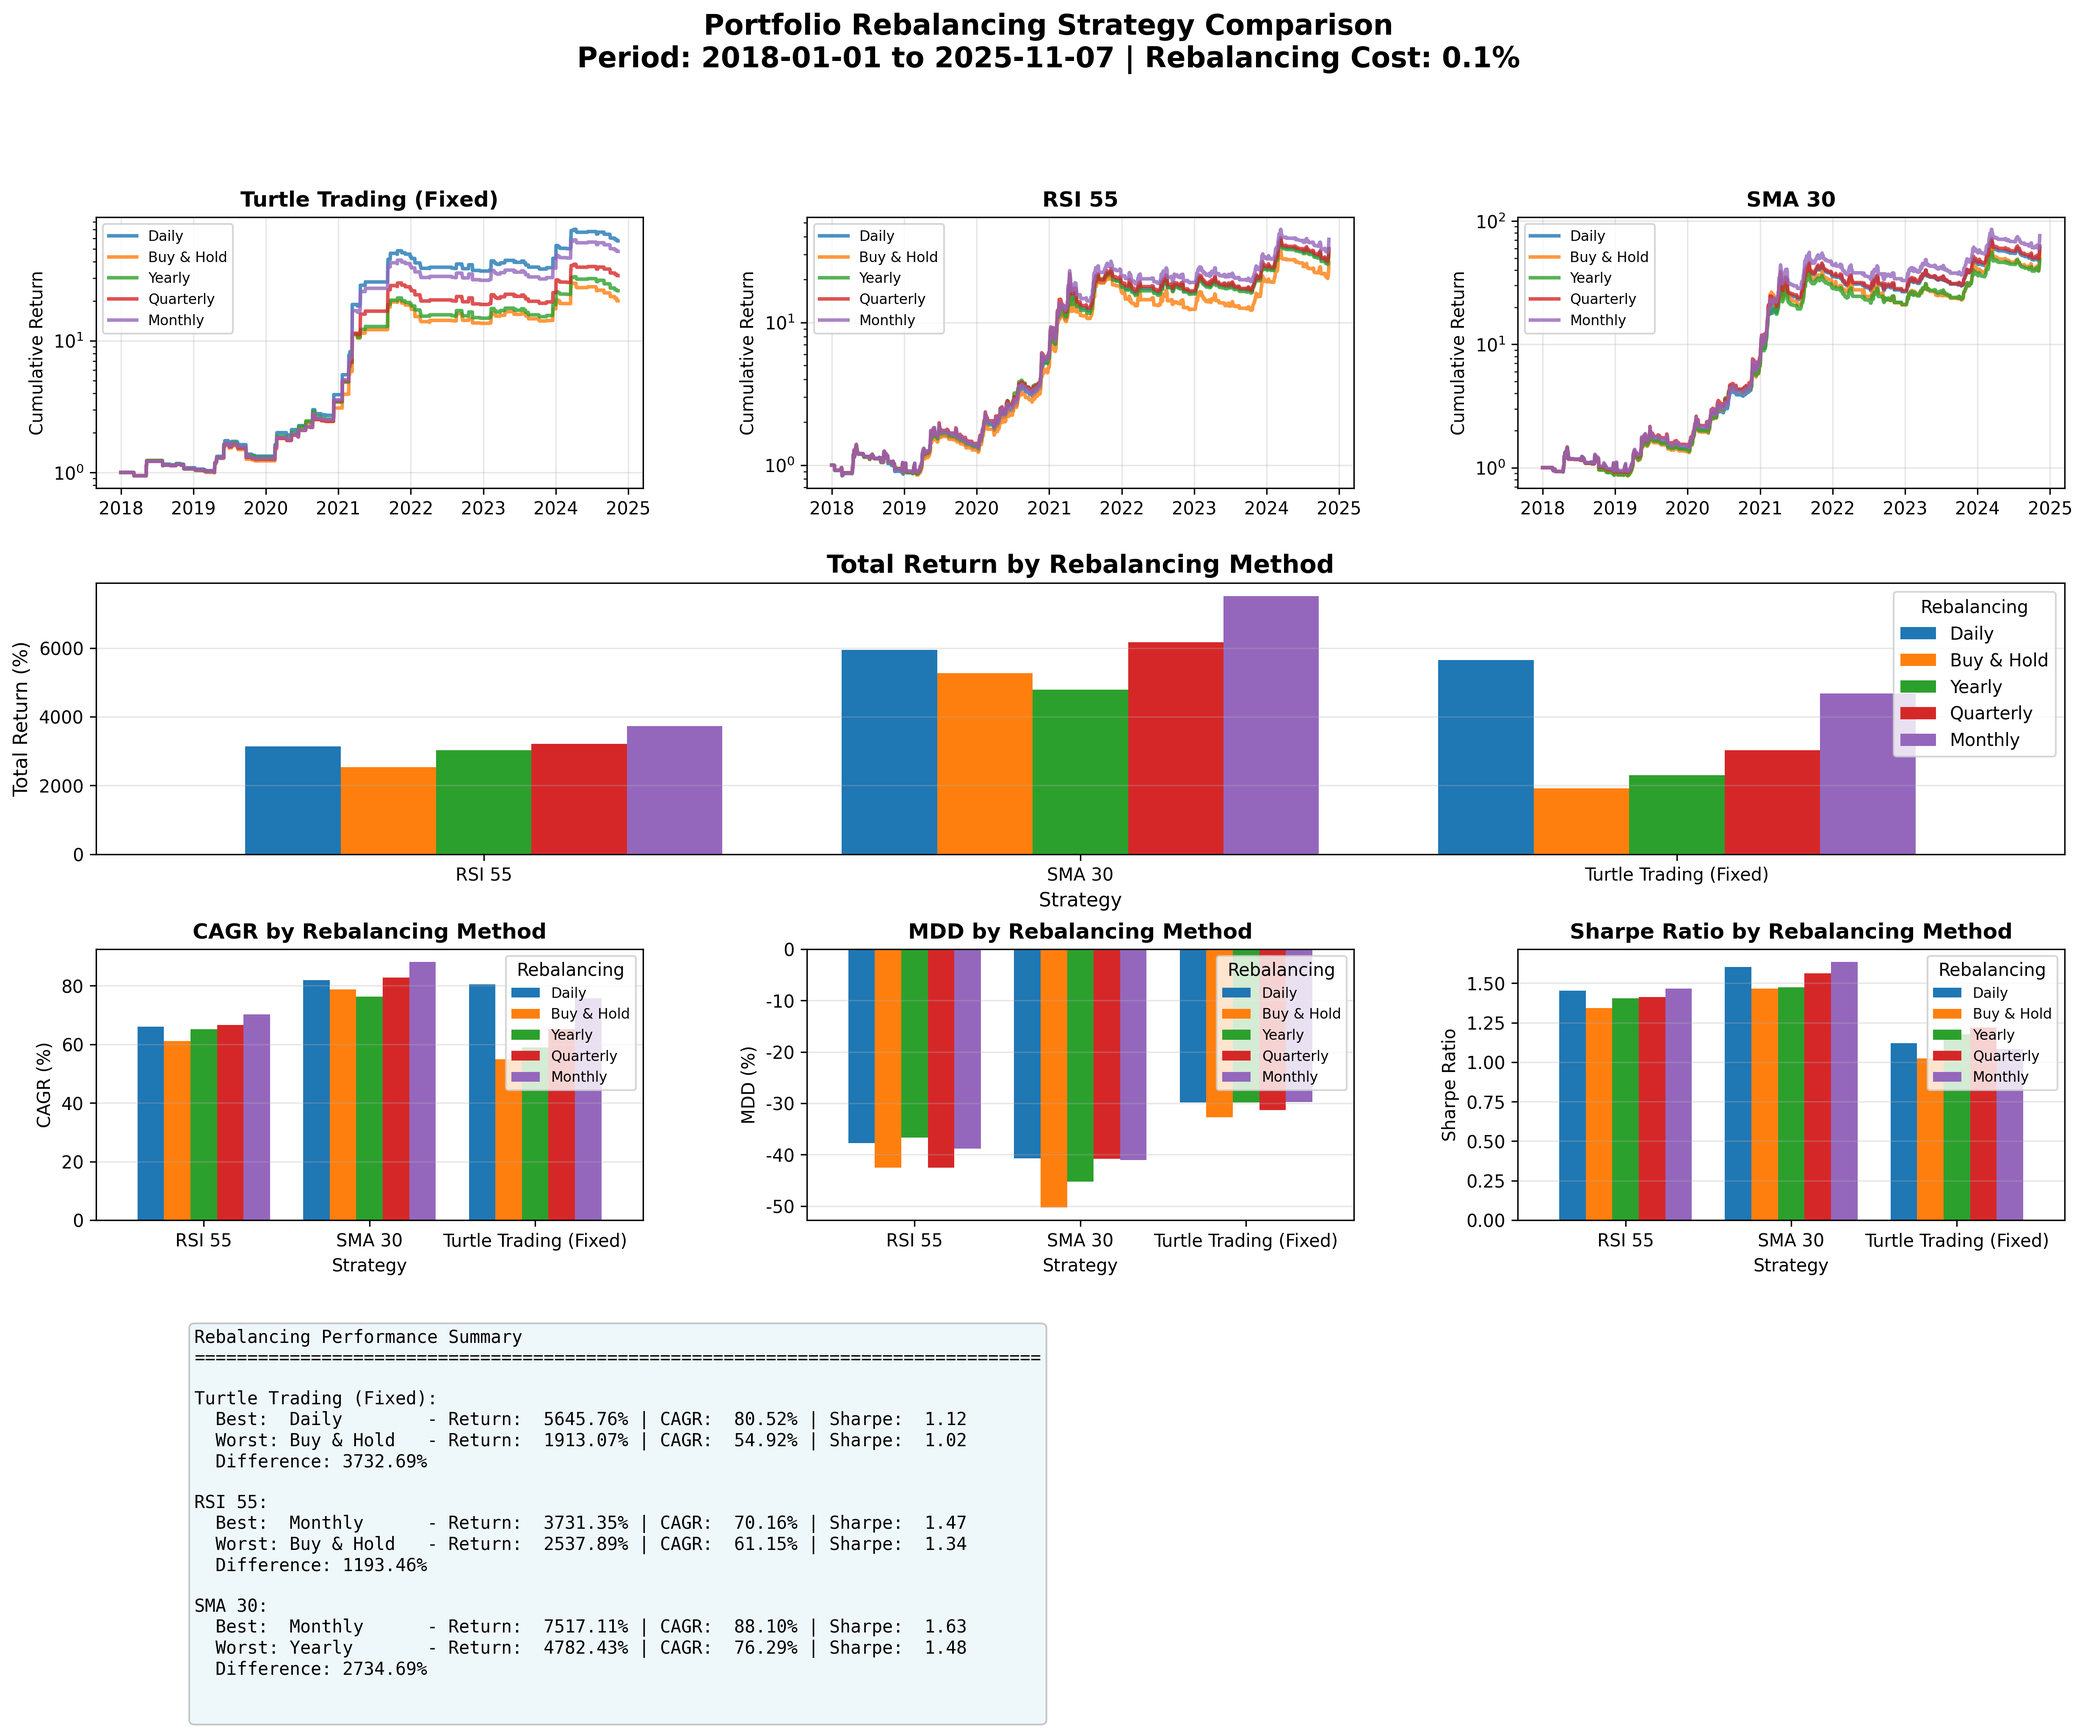
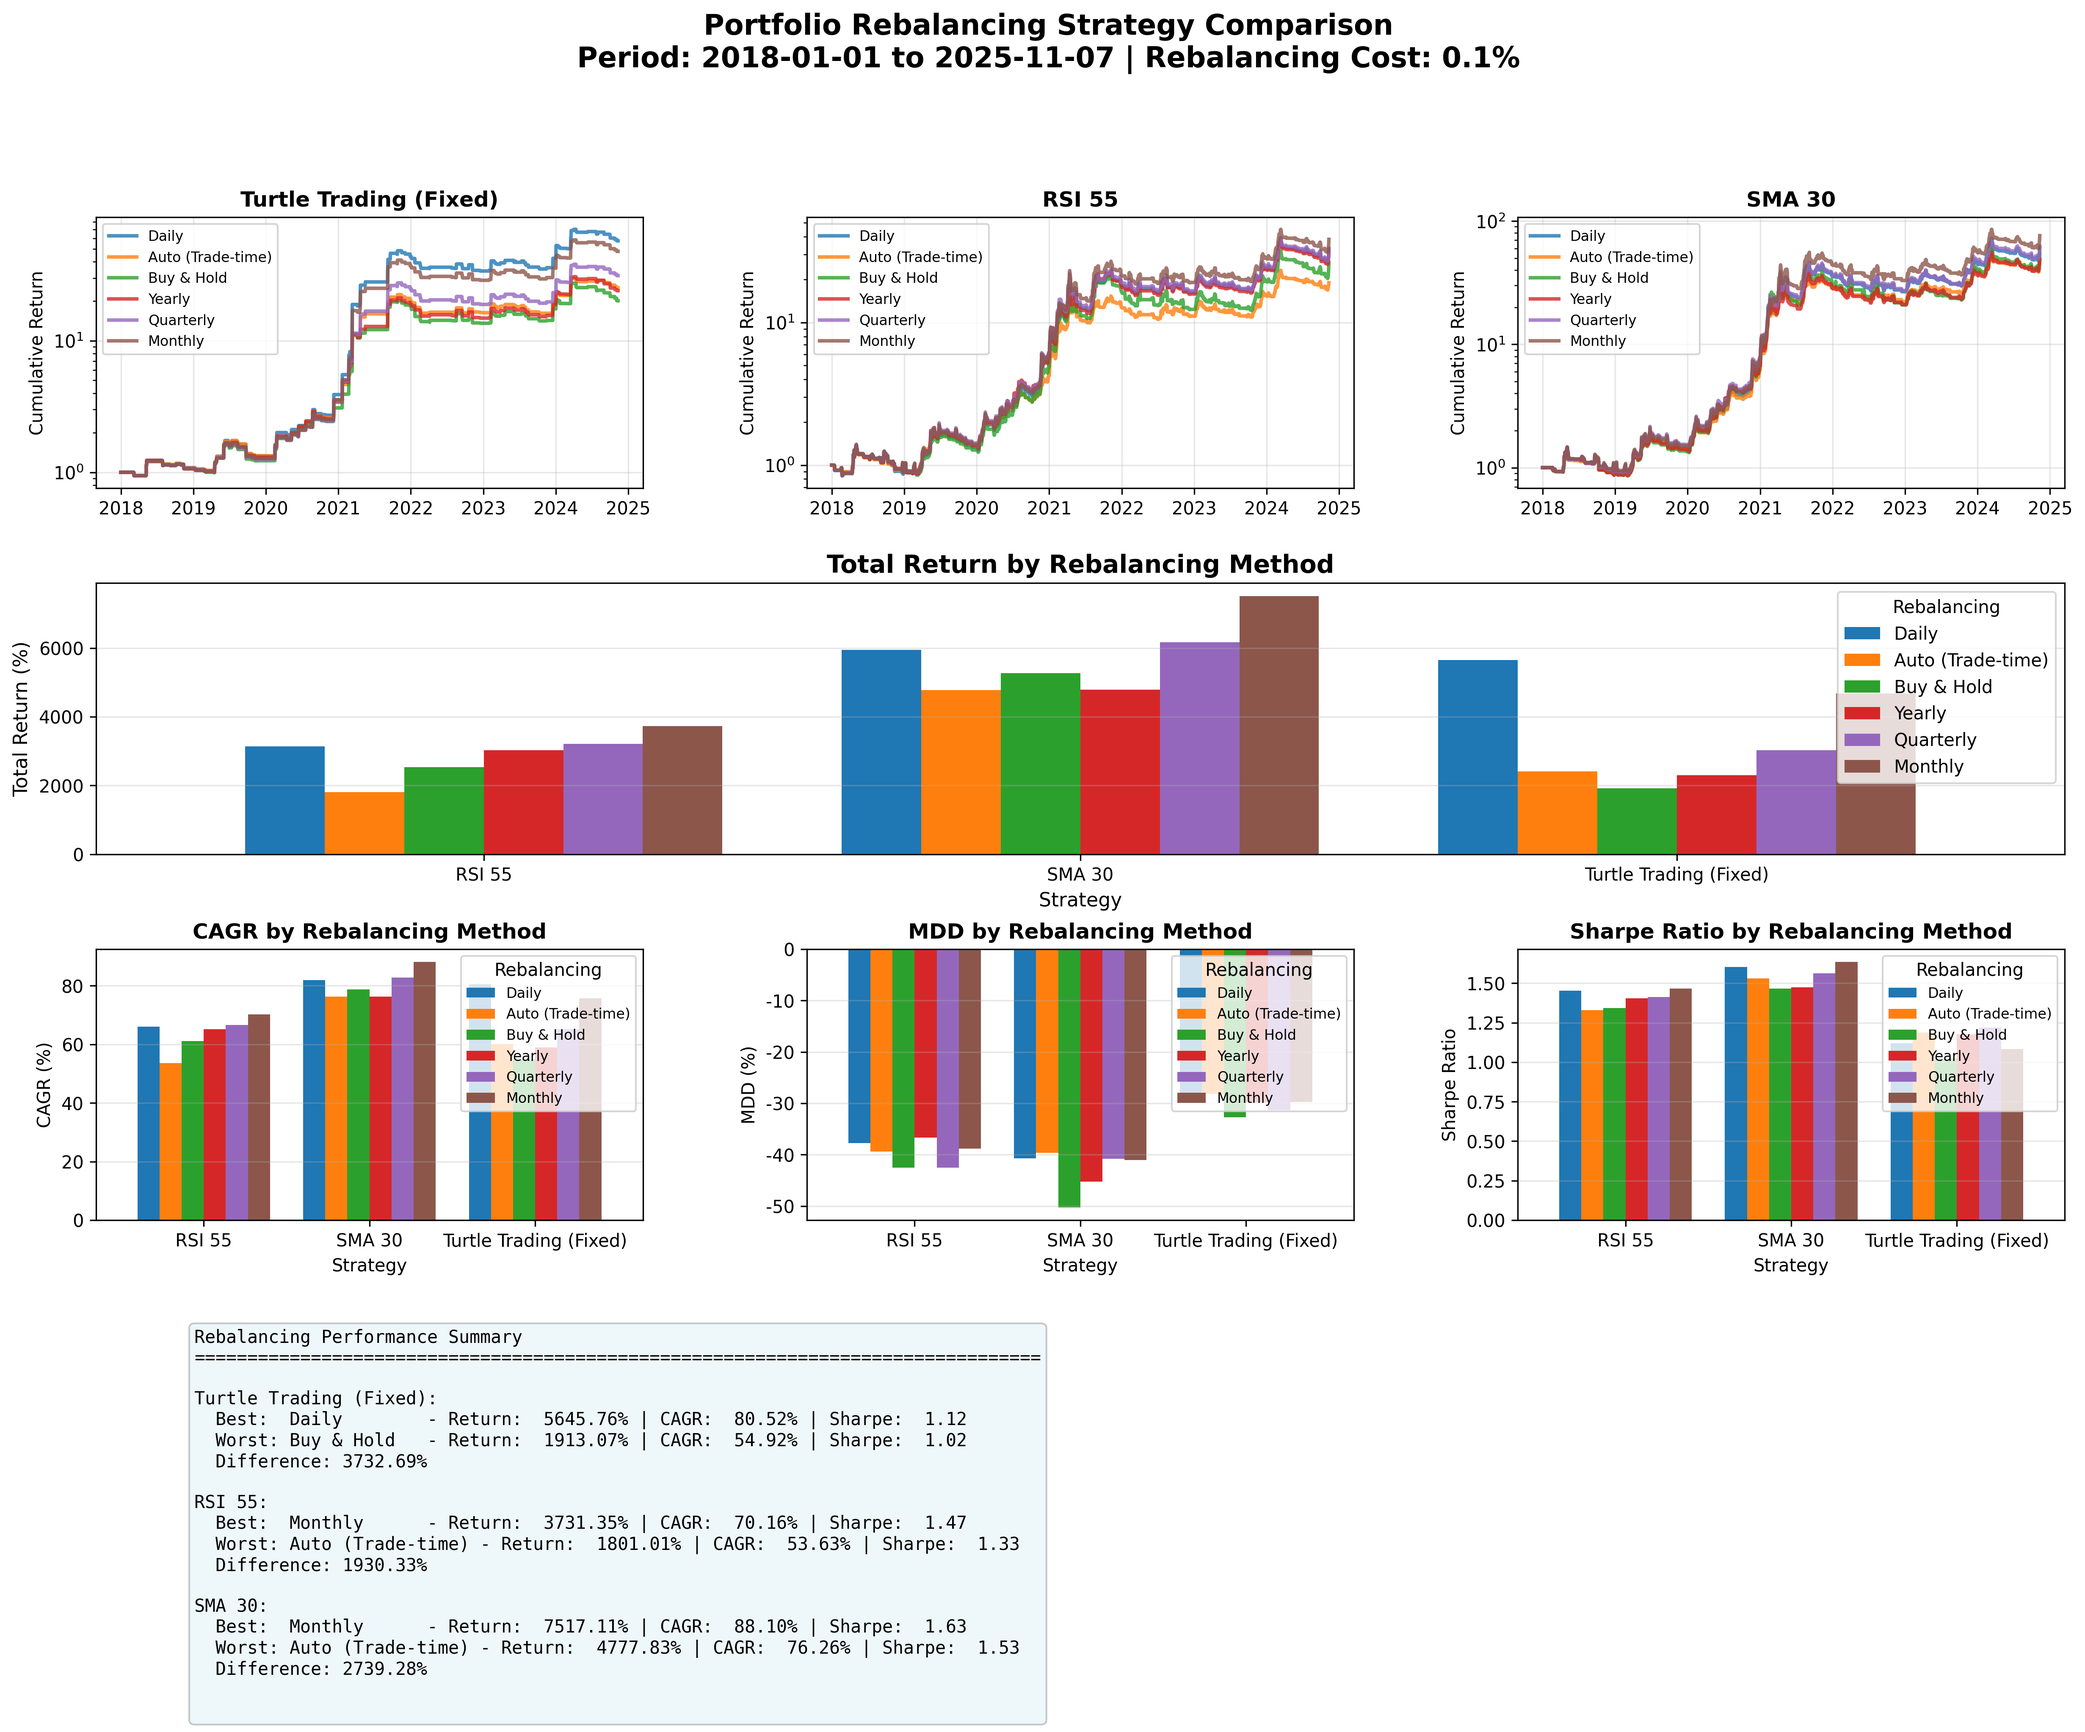
Add automatic trade-time rebalancing portfolio strategy
Implemented a highly realistic auto-rebalancing approach that mimics
real-world automated trading systems.

Concept (사용자 제안):
"자동화 로직에서 항상 전체자산(평가액)의 1/종목수만큼 매수"

Key Features:
- On BUY signal: Invest (Total Portfolio Value × 1/N) into that asset
- On SELL signal: Liquidate entire position in that asset
- Rebalancing occurs automatically at every trade signal
- Very realistic for automated trading systems
- Tracks cash and holdings separately

Implementation Details:
- Created create_auto_rebalancing_portfolio() method
- Simulates portfolio with cash + holdings management
- Applies slippage costs (0.2%) on each trade
- Calculates total value = cash + sum(holding_values)
- Position changes trigger automatic rebalancing

Performance Results (2018-2025):
- Turtle Trading: 2,416% (CAGR 60%) vs Daily 5,646%
- RSI 55: 1,801% (CAGR 54%) vs Daily 3,142%
- SMA 30: 4,778% (CAGR 76%) vs Daily 5,942%

Key Insights:
- Auto performs between Buy & Hold and Daily rebalancing
- More realistic than Daily (which is impractical)
- Better than Buy & Hold in all strategies
- Practical middle-ground for real automated systems
- Lower MDD than Daily in most cases

Comparison Rankings (Total Return):
1. Monthly rebalancing (best overall)
2. Daily rebalancing (impractical)
3. Quarterly rebalancing
4. Auto (Trade-time) ⭐ (NEW - very practical)
5. Yearly rebalancing
6. Buy & Hold

Updated visualization with 6 rebalancing methods
(added 2 more colors to support Auto method)

diff --git a/crypto_portfolio_strategy_comparison_fixed.py b/crypto_portfolio_strategy_comparison_fixed.py
@@ -803,6 +803,125 @@ class CryptoPortfolioComparisonFixed:
 
         return saved_files
 
+    def create_auto_rebalancing_portfolio(self):
+        """거래 시점 자동 리밸런싱 포트폴리오
+
+        각 매매 신호 발생 시 전체 평가액의 1/n을 해당 종목에 자동 투자
+        - 매수 신호: 현재 총 평가액의 1/종목수 만큼 매수
+        - 매도 신호: 해당 종목 포지션 전량 청산
+        - 매우 현실적인 자동매매 로직
+        """
+        print("\n" + "="*80)
+        print("Creating Auto-Rebalancing Portfolio (Trade-time Rebalancing)...")
+        print("="*80 + "\n")
+
+        results = {}
+        n_symbols = len(self.symbols)
+        target_weight = 1.0 / n_symbols
+
+        for strategy_name in self.strategy_results.keys():
+            print(f"\n>>> Processing {strategy_name}...")
+
+            # 공통 날짜 인덱스
+            all_indices = [self.strategy_results[strategy_name][symbol].index
+                          for symbol in self.symbols]
+            common_index = all_indices[0]
+            for idx in all_indices[1:]:
+                common_index = common_index.intersection(idx)
+
+            # 각 종목의 포지션과 수익률 데이터 가져오기
+            positions = {}
+            cumulative_data = {}
+
+            for symbol in self.symbols:
+                df = self.strategy_results[strategy_name][symbol].loc[common_index].copy()
+
+                # 포지션 정보 (있으면 사용, 없으면 signal에서 생성)
+                if 'position' in df.columns:
+                    positions[symbol] = df['position'].copy()
+                elif 'signal' in df.columns:
+                    positions[symbol] = df['signal'].copy()
+                else:
+                    # 수익률이 0이 아니면 포지션 있다고 가정
+                    positions[symbol] = (df['returns'] != 0).astype(int)
+
+                cumulative_data[symbol] = df['cumulative'].ffill().fillna(1.0)
+
+            # 포트폴리오 시뮬레이션
+            cash = 1.0  # 초기 현금
+            holdings = {symbol: 0.0 for symbol in self.symbols}  # 각 종목 보유 주식 수 (비율)
+            holding_values = {symbol: 0.0 for symbol in self.symbols}  # 각 종목 평가액
+
+            portfolio_values = pd.Series(index=common_index, dtype=float)
+            portfolio_values.iloc[0] = 1.0
+
+            for i, date in enumerate(common_index):
+                if i == 0:
+                    continue
+
+                prev_date = common_index[i-1]
+
+                # 1. 보유 종목 가치 업데이트 (가격 변동 반영)
+                for symbol in self.symbols:
+                    if holdings[symbol] > 0:
+                        # 전날 대비 가격 변동률
+                        if cumulative_data[symbol].loc[prev_date] != 0:
+                            price_ratio = cumulative_data[symbol].loc[date] / cumulative_data[symbol].loc[prev_date]
+                        else:
+                            price_ratio = 1.0
+                        holding_values[symbol] = holding_values[symbol] * price_ratio
+
+                # 2. 각 종목의 포지션 변화 확인 및 매매 실행
+                for symbol in self.symbols:
+                    prev_position = positions[symbol].loc[prev_date] if i > 0 else 0
+                    curr_position = positions[symbol].loc[date]
+
+                    # 매수 신호 (0 -> 1)
+                    if curr_position == 1 and prev_position == 0:
+                        # 현재 총 평가액 계산
+                        total_value = cash + sum(holding_values.values())
+
+                        # 목표 투자액 = 총 평가액 × (1/종목수)
+                        target_amount = total_value * target_weight
+
+                        # 슬리피지 포함 매수
+                        buy_cost = target_amount * (1 + self.slippage)
+
+                        if cash >= buy_cost:
+                            cash -= buy_cost
+                            holding_values[symbol] = target_amount
+                            holdings[symbol] = 1.0  # 포지션 보유 표시
+
+                    # 매도 신호 (1 -> 0)
+                    elif curr_position == 0 and prev_position == 1:
+                        if holdings[symbol] > 0:
+                            # 슬리피지 포함 매도
+                            sell_amount = holding_values[symbol] * (1 - self.slippage)
+                            cash += sell_amount
+                            holding_values[symbol] = 0.0
+                            holdings[symbol] = 0.0
+
+                # 3. 총 평가액 기록
+                total_value = cash + sum(holding_values.values())
+                portfolio_values.loc[date] = total_value
+
+            # 수익률 계산
+            portfolio_returns = portfolio_values.pct_change().fillna(0)
+
+            # 결과 저장
+            results[strategy_name] = pd.DataFrame({
+                'returns': portfolio_returns,
+                'cumulative': portfolio_values
+            }, index=common_index)
+
+            print(f"  Completed: Final value = {portfolio_values.iloc[-1]:.2f}x")
+
+        print("\n" + "="*80)
+        print("Auto-Rebalancing Portfolio creation completed!")
+        print("="*80 + "\n")
+
+        return results
+
     def compare_rebalancing_strategies(self):
         """다양한 리밸런싱 전략 비교 분석"""
         print("\n" + "="*80)
@@ -812,6 +931,10 @@ class CryptoPortfolioComparisonFixed:
         # 다양한 리밸런싱 전략으로 포트폴리오 생성
         rebalancing_results = {}
         rebalancing_results['Daily'] = self.portfolio_results  # 기존 매일 리밸런싱 결과
+
+        # 자동 리밸런싱 (거래 시점)
+        auto_rebal_results = self.create_auto_rebalancing_portfolio()
+        rebalancing_results['Auto (Trade-time)'] = auto_rebal_results
 
         for freq in ['BH', 'Y', 'Q', 'M']:
             results = self.create_rebalancing_portfolios(rebalance_freq=freq, rebalance_cost=0.001)
@@ -857,7 +980,7 @@ class CryptoPortfolioComparisonFixed:
         gs = fig.add_gridspec(4, 3, hspace=0.35, wspace=0.3)
 
         strategies = list(self.strategy_results.keys())
-        colors = ['#1f77b4', '#ff7f0e', '#2ca02c', '#d62728', '#9467bd']
+        colors = ['#1f77b4', '#ff7f0e', '#2ca02c', '#d62728', '#9467bd', '#8c564b', '#e377c2']
         rebal_methods = list(self.rebalancing_results.keys())
 
         # 1-3. 각 전략별 리밸런싱 효과 비교
